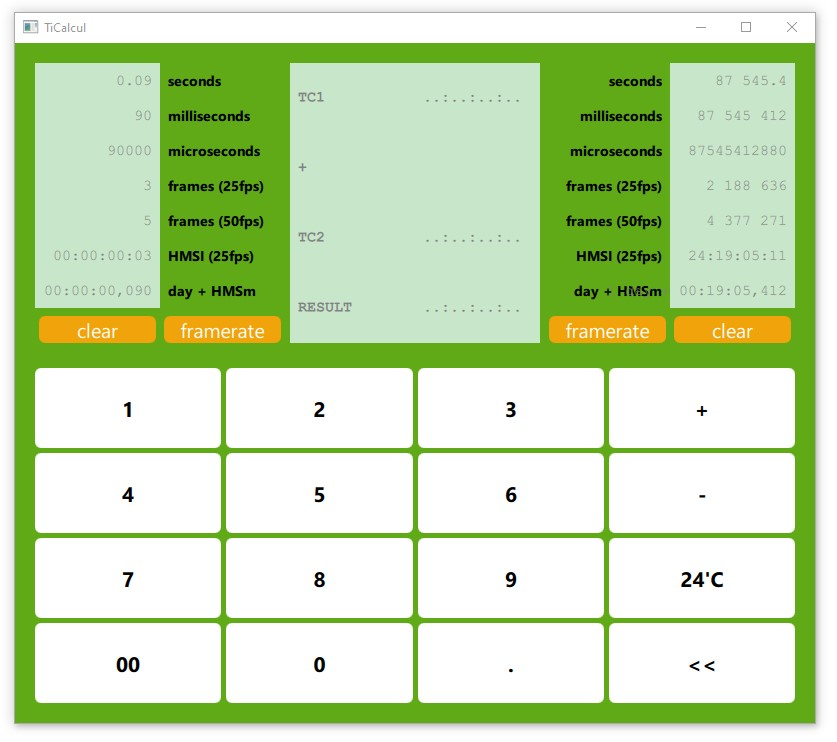
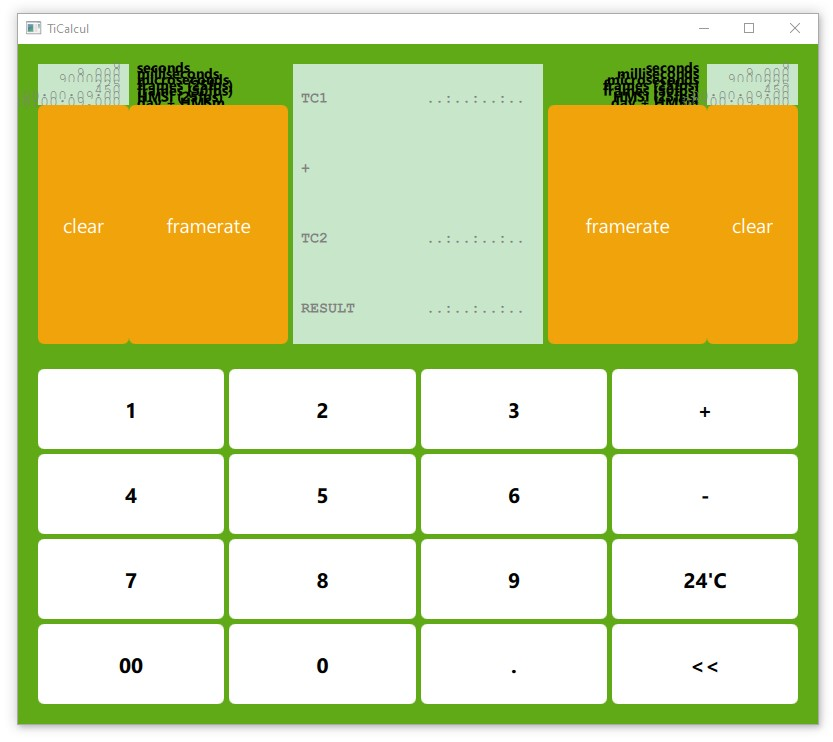
Chaque bouton fait une action différente

diff --git a/Qml/Vues/RightFrameForm.ui.qml b/Qml/Vues/RightFrameForm.ui.qml
@@ -2,9 +2,12 @@ import QtQuick
 import QtQuick.Layouts
 import QtQuick.Controls.Universal
 
-import "../Controllers"
+import "../Components"
 
 Item {
+    property alias btClear: btClear
+    property alias btFramerate: btFramerate
+
     GridLayout {
         id: zoneSaisie
         anchors.fill: parent
@@ -104,7 +107,7 @@ Item {
         }
         // ---------------------------------------
         TiButton {
-            id: btFrameRate
+            id: btFramerate
             buttonText: "framerate"
             Layout.fillHeight: true
             Layout.fillWidth: true

diff --git a/Qml/Vues/LeftFrameForm.ui.qml b/Qml/Vues/LeftFrameForm.ui.qml
@@ -2,9 +2,12 @@ import QtQuick
 import QtQuick.Layouts
 import QtQuick.Controls.Universal
 
-import "../Controllers"
+import "../Components"
 
 Item {
+    property alias btClear: btClear
+    property alias btFramerate: btFramerate
+
     GridLayout {
         id: zoneSaisie
         anchors.fill: parent
@@ -103,7 +106,7 @@ Item {
             Layout.fillWidth: true
         }
         TiButton {
-            id: btFrameRate
+            id: btFramerate
             buttonText: "framerate"
             Layout.fillHeight: true
             Layout.fillWidth: true

diff --git a/Qml/Controllers/RightFrame.qml b/Qml/Controllers/RightFrame.qml
@@ -1,0 +1,20 @@
+import QtQuick
+
+import "../Vues"
+
+
+/*! *****************************************************************
+ *  Controlleur pour le panel de droite
+ * ***************************************************************** */
+RightFrameForm {
+
+    btFramerate.onClicked: {
+        console.log("TiButton btFramerate clicked ! ")
+        operandeTC2.clear()
+    }
+
+    btClear.onClicked: {
+        console.log("TiButton btClear clicked ! ")
+        operandeTC2.clear()
+    }
+}

diff --git a/Qml/Controllers/LeftFrame.qml b/Qml/Controllers/LeftFrame.qml
@@ -1,0 +1,20 @@
+import QtQuick
+
+import "../Vues"
+
+
+/*! *****************************************************************
+ *  Controlleur pour le panel de gauche
+ * ***************************************************************** */
+LeftFrameForm {
+
+    btFramerate.onClicked: {
+        console.log("TiButton btFramerate clicked ! ")
+        operandeTC1.clear()
+    }
+
+    btClear.onClicked: {
+        console.log("TiButton btClear clicked ! ")
+        operandeTC1.clear()
+    }
+}

diff --git a/Qml/Vues/TiButton.ui.qml b/Qml/Vues/TiButton.ui.qml
@@ -3,11 +3,13 @@ import QtQuick.Controls.Universal
 
 Button {
     id: button
-    anchors.fill: parent
+	property string buttonText
+	
+/*    anchors.fill: parent
     anchors.topMargin: 8
     anchors.leftMargin: 4
     anchors.rightMargin: 4
-
+*/
     contentItem: Text {
         text: buttonText
         // color: button.down ? "black" : "white"

diff --git a/Qml/Main.qml b/Qml/Main.qml
@@ -4,6 +4,7 @@ import QtQuick.Controls
 import QtQuick.Controls.Universal
 
 import "./Components"
+import "./Controllers"
 
 Window {
     width: 800

diff --git a/Sources/operande.cpp b/Sources/operande.cpp
@@ -54,7 +54,6 @@ qint64 Operande::valeurPivot() const
 void Operande::setValeurPivot(qint64 newValeurPivot)
 {
     mValeurPivot = newValeurPivot;
-    qDebug("send");
     emit valeurPivotChanged(mValeurPivot);
 }
 
@@ -64,8 +63,7 @@ void Operande::setValeurPivot(qint64 newValeurPivot)
  */
 void Operande::clear()
 {
-    qDebug("clear");
-    setValeurPivot(90000);
+    setValeurPivot(9000000);
 }
 
 /* ********************************************************************************************************** */

diff --git a/main.cpp b/main.cpp
@@ -37,6 +37,7 @@ int main(int argc, char* argv[])
     // On ajoute au contexte les classes qui ont des property QML
     // --------------------------------------
     context->setContextProperty("operandeTC1", &operande_tc1);
+    context->setContextProperty("operandeTC2", &operande_tc2);
     operande_tc1.registerContext(context);
     operande_tc2.registerContext(context);
 
